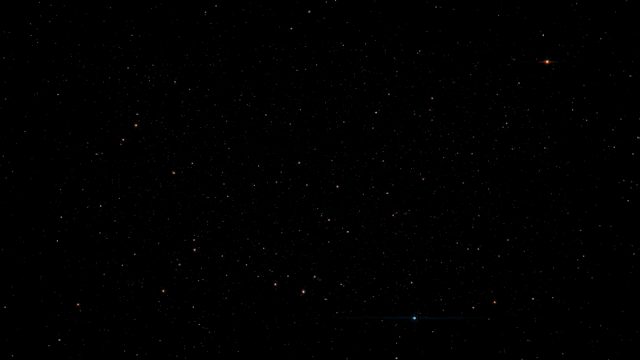
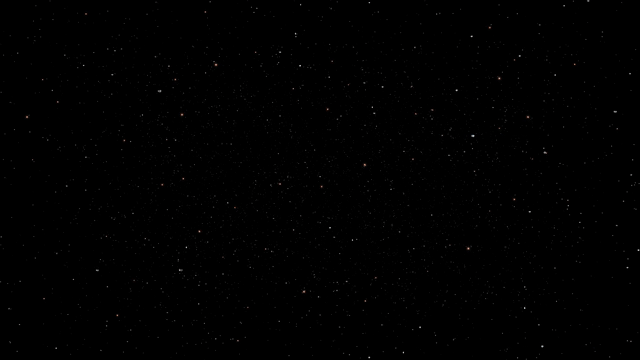
theme: tile the Space frames at native scale

Changed region(s): [[0.8438, 0.1528, 0.875, 0.1833]]

diff --git a/src/space_frames.rs b/src/space_frames.rs
@@ -1,19 +1,27 @@
-//! The Space preset's background frames.
+//! The Space preset's background frames and their native-size tile grid.
 //!
 //! The owner's installed Firefox theme ships `background.gif`: 640x360, 119
 //! frames at 60-70 ms, a starfield that twinkles quickly and decorrelates over
-//! a few frames. The app renders those pixels instead of imitating them.
-//! Twenty-four frames are sampled evenly across the loop (indices 0, 5, ...,
-//! 113, 118 of the source) and embedded here as lossless PNGs, so no external
-//! file is needed at runtime.
+//! a few frames. The app renders those pixels instead of imitating them. All
+//! 119 frames are embedded here as lossless PNGs, so no external file is
+//! needed at runtime.
 //!
-//! Decoding happens once at startup. The window timer advances through the
-//! images every 70 ms; see `AppWindow.advance-space-frame`.
+//! Decoding happens once at startup. 119 RGBA frames of 640x360 are 109.7 MB,
+//! inside the 120 MB budget; every frame is kept, so the loop runs the whole
+//! 8.3 s reference at 70 ms a step. See `AppWindow.advance-space-frame`.
+//!
+//! `Starfield` tiles the current frame at native size. The GIF's 1-px stars
+//! stay one device pixel instead of being stretched over the window: a tile is
+//! `640 / device-pixel-ratio` logical pixels wide, so the renderer maps it to
+//! exactly 640 physical pixels, and the tiles sit at exact multiples of that
+//! size. The grid holds just enough tiles to cover the window, rebuilt when the
+//! window's size or scale changes.
 
-use slint::{Image, Rgba8Pixel, SharedPixelBuffer};
+use crate::{AppWindow, SpaceTile};
+use slint::{ComponentHandle, Image, ModelRc, Rgba8Pixel, SharedPixelBuffer, VecModel};
 
 /// The reference frames in playback order, embedded in the binary.
-const FRAMES: [&[u8]; 24] = [
+const FRAMES: [&[u8]; 119] = [
     include_bytes!("../resources/space-frames/space-000.png"),
     include_bytes!("../resources/space-frames/space-001.png"),
     include_bytes!("../resources/space-frames/space-002.png"),
@@ -38,7 +46,106 @@ const FRAMES: [&[u8]; 24] = [
     include_bytes!("../resources/space-frames/space-021.png"),
     include_bytes!("../resources/space-frames/space-022.png"),
     include_bytes!("../resources/space-frames/space-023.png"),
+    include_bytes!("../resources/space-frames/space-024.png"),
+    include_bytes!("../resources/space-frames/space-025.png"),
+    include_bytes!("../resources/space-frames/space-026.png"),
+    include_bytes!("../resources/space-frames/space-027.png"),
+    include_bytes!("../resources/space-frames/space-028.png"),
+    include_bytes!("../resources/space-frames/space-029.png"),
+    include_bytes!("../resources/space-frames/space-030.png"),
+    include_bytes!("../resources/space-frames/space-031.png"),
+    include_bytes!("../resources/space-frames/space-032.png"),
+    include_bytes!("../resources/space-frames/space-033.png"),
+    include_bytes!("../resources/space-frames/space-034.png"),
+    include_bytes!("../resources/space-frames/space-035.png"),
+    include_bytes!("../resources/space-frames/space-036.png"),
+    include_bytes!("../resources/space-frames/space-037.png"),
+    include_bytes!("../resources/space-frames/space-038.png"),
+    include_bytes!("../resources/space-frames/space-039.png"),
+    include_bytes!("../resources/space-frames/space-040.png"),
+    include_bytes!("../resources/space-frames/space-041.png"),
+    include_bytes!("../resources/space-frames/space-042.png"),
+    include_bytes!("../resources/space-frames/space-043.png"),
+    include_bytes!("../resources/space-frames/space-044.png"),
+    include_bytes!("../resources/space-frames/space-045.png"),
+    include_bytes!("../resources/space-frames/space-046.png"),
+    include_bytes!("../resources/space-frames/space-047.png"),
+    include_bytes!("../resources/space-frames/space-048.png"),
+    include_bytes!("../resources/space-frames/space-049.png"),
+    include_bytes!("../resources/space-frames/space-050.png"),
+    include_bytes!("../resources/space-frames/space-051.png"),
+    include_bytes!("../resources/space-frames/space-052.png"),
+    include_bytes!("../resources/space-frames/space-053.png"),
+    include_bytes!("../resources/space-frames/space-054.png"),
+    include_bytes!("../resources/space-frames/space-055.png"),
+    include_bytes!("../resources/space-frames/space-056.png"),
+    include_bytes!("../resources/space-frames/space-057.png"),
+    include_bytes!("../resources/space-frames/space-058.png"),
+    include_bytes!("../resources/space-frames/space-059.png"),
+    include_bytes!("../resources/space-frames/space-060.png"),
+    include_bytes!("../resources/space-frames/space-061.png"),
+    include_bytes!("../resources/space-frames/space-062.png"),
+    include_bytes!("../resources/space-frames/space-063.png"),
+    include_bytes!("../resources/space-frames/space-064.png"),
+    include_bytes!("../resources/space-frames/space-065.png"),
+    include_bytes!("../resources/space-frames/space-066.png"),
+    include_bytes!("../resources/space-frames/space-067.png"),
+    include_bytes!("../resources/space-frames/space-068.png"),
+    include_bytes!("../resources/space-frames/space-069.png"),
+    include_bytes!("../resources/space-frames/space-070.png"),
+    include_bytes!("../resources/space-frames/space-071.png"),
+    include_bytes!("../resources/space-frames/space-072.png"),
+    include_bytes!("../resources/space-frames/space-073.png"),
+    include_bytes!("../resources/space-frames/space-074.png"),
+    include_bytes!("../resources/space-frames/space-075.png"),
+    include_bytes!("../resources/space-frames/space-076.png"),
+    include_bytes!("../resources/space-frames/space-077.png"),
+    include_bytes!("../resources/space-frames/space-078.png"),
+    include_bytes!("../resources/space-frames/space-079.png"),
+    include_bytes!("../resources/space-frames/space-080.png"),
+    include_bytes!("../resources/space-frames/space-081.png"),
+    include_bytes!("../resources/space-frames/space-082.png"),
+    include_bytes!("../resources/space-frames/space-083.png"),
+    include_bytes!("../resources/space-frames/space-084.png"),
+    include_bytes!("../resources/space-frames/space-085.png"),
+    include_bytes!("../resources/space-frames/space-086.png"),
+    include_bytes!("../resources/space-frames/space-087.png"),
+    include_bytes!("../resources/space-frames/space-088.png"),
+    include_bytes!("../resources/space-frames/space-089.png"),
+    include_bytes!("../resources/space-frames/space-090.png"),
+    include_bytes!("../resources/space-frames/space-091.png"),
+    include_bytes!("../resources/space-frames/space-092.png"),
+    include_bytes!("../resources/space-frames/space-093.png"),
+    include_bytes!("../resources/space-frames/space-094.png"),
+    include_bytes!("../resources/space-frames/space-095.png"),
+    include_bytes!("../resources/space-frames/space-096.png"),
+    include_bytes!("../resources/space-frames/space-097.png"),
+    include_bytes!("../resources/space-frames/space-098.png"),
+    include_bytes!("../resources/space-frames/space-099.png"),
+    include_bytes!("../resources/space-frames/space-100.png"),
+    include_bytes!("../resources/space-frames/space-101.png"),
+    include_bytes!("../resources/space-frames/space-102.png"),
+    include_bytes!("../resources/space-frames/space-103.png"),
+    include_bytes!("../resources/space-frames/space-104.png"),
+    include_bytes!("../resources/space-frames/space-105.png"),
+    include_bytes!("../resources/space-frames/space-106.png"),
+    include_bytes!("../resources/space-frames/space-107.png"),
+    include_bytes!("../resources/space-frames/space-108.png"),
+    include_bytes!("../resources/space-frames/space-109.png"),
+    include_bytes!("../resources/space-frames/space-110.png"),
+    include_bytes!("../resources/space-frames/space-111.png"),
+    include_bytes!("../resources/space-frames/space-112.png"),
+    include_bytes!("../resources/space-frames/space-113.png"),
+    include_bytes!("../resources/space-frames/space-114.png"),
+    include_bytes!("../resources/space-frames/space-115.png"),
+    include_bytes!("../resources/space-frames/space-116.png"),
+    include_bytes!("../resources/space-frames/space-117.png"),
+    include_bytes!("../resources/space-frames/space-118.png"),
 ];
+
+/// The reference frame's pixel size; one image pixel is one physical pixel.
+const FRAME_WIDTH: f32 = 640.0;
+const FRAME_HEIGHT: f32 = 360.0;
 
 /// Decode every embedded frame in playback order.
 pub(crate) fn load() -> Vec<Image> {
@@ -58,16 +165,67 @@ pub(crate) fn load() -> Vec<Image> {
         .collect()
 }
 
+/// Rebuild the tile grid for a window of `width` x `height` logical pixels.
+///
+/// The reference frame is drawn at one image pixel per device pixel, so the
+/// tile is `FRAME_WIDTH / scale_factor` logical pixels wide. The grid has
+/// exactly `ceil(width / tile_width)` columns and `ceil(height / tile_height)`
+/// rows, positioned at exact multiples so adjacent tiles meet without a seam.
+pub(crate) fn arrange_tiles(app: &AppWindow, width: f32, height: f32) {
+    let scale = app.window().scale_factor();
+    let scale = if scale.is_finite() && scale > 0.0 {
+        scale
+    } else {
+        1.0
+    };
+    if !width.is_finite() || !height.is_finite() || width <= 0.0 || height <= 0.0 {
+        return;
+    }
+    let tile_width = FRAME_WIDTH / scale;
+    let tile_height = FRAME_HEIGHT / scale;
+    let columns = (width / tile_width).ceil().max(1.0) as i32;
+    let rows = (height / tile_height).ceil().max(1.0) as i32;
+    app.set_space_pixel_ratio(scale);
+    let tiles = (0..rows)
+        .flat_map(|row| {
+            (0..columns).map(move |column| SpaceTile {
+                x: column as f32 * tile_width,
+                y: row as f32 * tile_height,
+            })
+        })
+        .collect::<Vec<_>>();
+    app.set_space_tiles(ModelRc::new(VecModel::from(tiles)));
+}
+
 #[cfg(test)]
 mod tests {
     use super::*;
 
     #[test]
-    fn embeds_the_reference_frame_set() {
+    fn embeds_the_whole_reference_frame_set() {
         let frames = load();
-        assert_eq!(frames.len(), 24);
+        assert_eq!(frames.len(), 119);
         for frame in frames {
-            assert_eq!((frame.size().width, frame.size().height), (640, 360));
+            assert_eq!(
+                (frame.size().width, frame.size().height),
+                (FRAME_WIDTH as u32, FRAME_HEIGHT as u32)
+            );
         }
+    }
+
+    #[test]
+    fn arranges_enough_native_tiles_to_cover_the_window() {
+        // Guards the arithmetic: at 2.25x a 1320x800 window needs 5x5 tiles of
+        // 640x360 physical pixels, at 1x a 1920x1080 window needs 3x3.
+        let scale = 2.25;
+        let (width, height) = (1320.0, 800.0);
+        let (tile_width, tile_height) = (FRAME_WIDTH / scale, FRAME_HEIGHT / scale);
+        assert_eq!((width / tile_width).ceil() as i32, 5);
+        assert_eq!((height / tile_height).ceil() as i32, 5);
+        let scale = 1.0;
+        let (width, height) = (1920.0, 1080.0);
+        let (tile_width, tile_height) = (FRAME_WIDTH / scale, FRAME_HEIGHT / scale);
+        assert_eq!((width / tile_width).ceil() as i32, 3);
+        assert_eq!((height / tile_height).ceil() as i32, 3);
     }
 }

diff --git a/src/main.rs b/src/main.rs
@@ -1931,8 +1931,9 @@ pub fn run(platform: PlatformContext) -> Result<(), Box<dyn std::error::Error>> 
     window_chrome::prepare(window_frame);
     let app = renderer_preferences::initialize_step(use_wgpu, AppWindow::new)?;
     // Space renders the installed Firefox theme's own background: decode the
-    // 24 embedded reference frames once, show the first, and let the window's
-    // 70 ms timer step through the rest while the preset is active.
+    // whole 119-frame loop once, show the first, and let the window's 70 ms
+    // timer step through the rest while the preset is active. The frame is
+    // tiled at its native 640x360 size, one image pixel per device pixel.
     let space_frames = Rc::new(space_frames::load());
     app.set_space_frame(space_frames[0].clone());
     let space_frame_index = Rc::new(Cell::new(0usize));
@@ -1941,9 +1942,26 @@ pub fn run(platform: PlatformContext) -> Result<(), Box<dyn std::error::Error>> 
         let Some(app) = space_frame_window.upgrade() else {
             return;
         };
+        // A monitor move can change the device pixel ratio without resizing
+        // the window in logical units, so re-check the tile size here too.
+        let scale = app.window().scale_factor();
+        if scale > 0.0 && (app.get_space_pixel_ratio() - scale).abs() > 0.001 {
+            let size = app.window().size();
+            space_frames::arrange_tiles(
+                &app,
+                size.width as f32 / scale,
+                size.height as f32 / scale,
+            );
+        }
         let next = (space_frame_index.get() + 1) % space_frames.len();
         space_frame_index.set(next);
         app.set_space_frame(space_frames[next].clone());
+    });
+    let space_tiles_window = app.as_weak();
+    app.on_arrange_space_tiles(move |width, height| {
+        if let Some(app) = space_tiles_window.upgrade() {
+            space_frames::arrange_tiles(&app, width, height);
+        }
     });
     app.global::<MailListNavigation>()
         .on_target(mail_navigation::target);
@@ -2000,6 +2018,15 @@ pub fn run(platform: PlatformContext) -> Result<(), Box<dyn std::error::Error>> 
         startup_metrics.emit("started_in_tray", serde_json::Value::Null);
     } else {
         renderer_preferences::initialize_step(use_wgpu, || app.show())?;
+        // The winit window reports its real device pixel ratio once it maps,
+        // so lay the native-size frame tiles out again with the settled size.
+        let space_scale = app.window().scale_factor().max(1.0);
+        let space_size = app.window().size();
+        space_frames::arrange_tiles(
+            &app,
+            space_size.width as f32 / space_scale,
+            space_size.height as f32 / space_scale,
+        );
         startup_metrics.emit(
             "window_shown",
             serde_json::json!({
